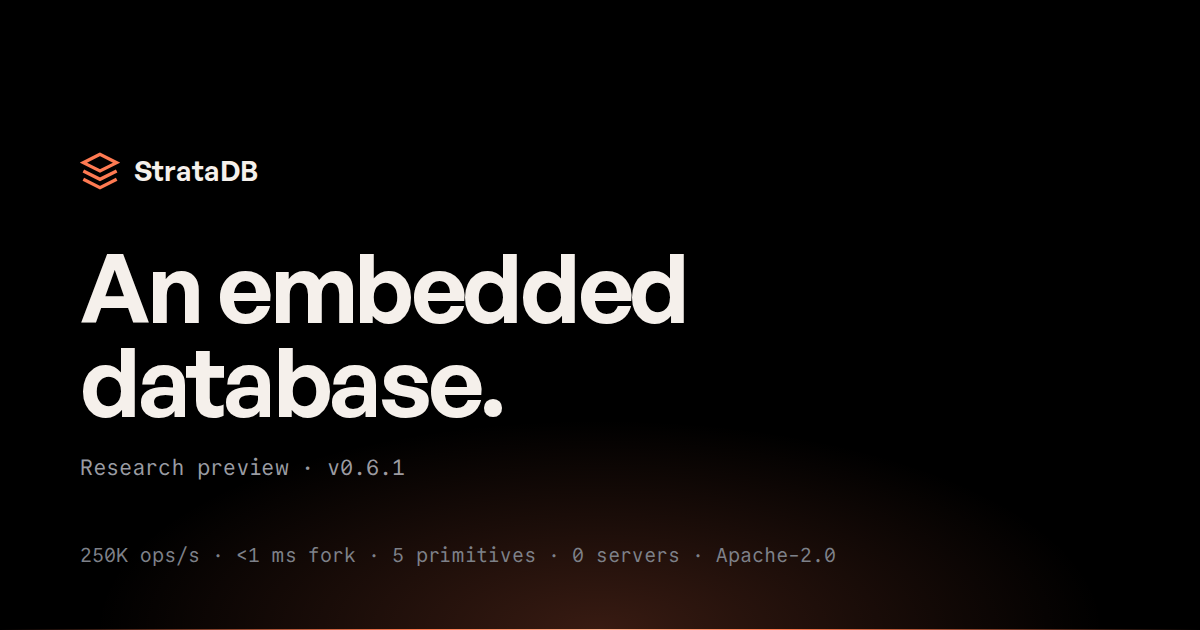
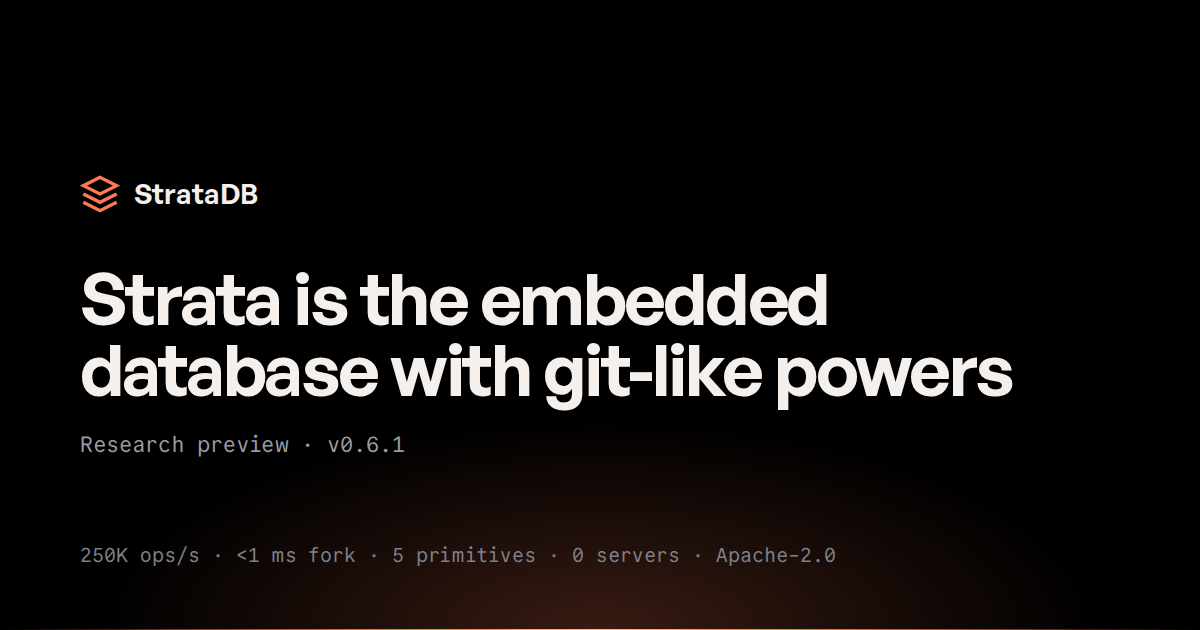
Hero v3: the acquisition surface
- H1 → 'Strata is the embedded database with git-like powers' (Ani
  verbatim; supersedes the understatement experiment — with the river
  behind it, the fuller claim carries)
- 'Get Started' removed from the hero (docs live in the nav)
- The acquisition control: curl chip + Download Foundry (R1 interim →
  repo) joined in one group; 'for your agent → stratadb.org/llms.txt'
  beneath — human CLI, human GUI, and agent door in one screen
- OG regenerated with the new headline; axe CLEAN

diff --git a/docs/product/04-experience-landing.md b/docs/product/04-experience-landing.md
@@ -69,15 +69,20 @@ stratahub) · **For agents** (`llms.txt`, For AI agents, MCP reference). Meta ro
 1px gradient line + `--horizon-glow` behind the terminal. Parallax site #1: glow 0.85×,
 terminal 1.0×, stat strip 1.04×.
 
-**Copy** (final; simple — the hero describes nothing; the demo does).
+**Copy** (v3, 2026-06-12 — the hero is the acquisition surface).
 - Badge: `Research preview · v{version}` → `/changelog`
-- H1 (`display-xl`): **"An embedded database."** — **CONFIRMED (Ani, 2026-06-11).**
-  Maximal understatement over an impossible demo; the gap is the entire effect.
-  Rationale in the approver's words: *"We are so unbothered by marketing that we
-  literally call ourselves an embedded database and that's it."* Era-framings rejected
-  (saturated, unverifiable, collapse the understatement).
-- CTAs: **"Get Started"** → `/docs/getting-started` · copyable mono chip
-  `curl -fsSL stratadb.org/install.sh | sh`
+- H1 (`display-xl`): **"Strata is the embedded database with git-like powers"** —
+  Ani's wording verbatim (2026-06-12), superseding "An embedded database." The
+  understatement experiment served its month; with the river artwork behind it, the
+  fuller claim carries. *(Noted, not normalized: uses the family name "Strata" and
+  "the" — both deliberate in Ani's phrasing; 02 §2 naming table records the exception.)*
+- **The acquisition control** (replaces all hero CTAs — no "Get Started"; docs live in
+  the nav): one joined group — copyable `curl -fsSL stratadb.org/install.sh | sh` ·
+  divider · **"⬇ Download Foundry"** (R1 interim: → strata-foundry repo; auto-upgrades
+  to release artifacts). Beneath it, the agent door, in the hero:
+  `for your agent → stratadb.org/llms.txt`.
+- Funnel note: the hero now carries **Feel + Act in one screen** — claim, get-the-product
+  (human CLI · human GUI · agent URL), proof below.
 - Stat strip (Commit Mono, footnote markers → conditions in docs):
   `250K ops/s · <1 ms fork · 5 primitives · 0 servers · Apache-2.0`
 

diff --git a/docs/product/README.md b/docs/product/README.md
@@ -69,3 +69,5 @@ are blocked until their upstream is signed off by Ani.
 | 2026-06-12 | **EMBER recalibration** (Ani: clay palette read "too serious… can't take a joke"; ref. neon.com's luminosity). Same terracotta family shifted luminous — the palette emits light: 500 #E07A5F→#FF7A52, ramp rebalanced, primitive/functional hues brightened, glow 0.13→0.24. Decided in pixels (3 candidates rendered on the live hero; ember-hot rejected as shouting). Every contrast pairing improved; axe stays clean; OG regenerated; Foundry B2 target → #E85F3A | 02 §4, tokens.css, 08 |
 | 2026-06-12 | **THE NEUTRAL STAGE — final canvas** (Ani: "the macros suck; copy Neon, ember instead of emerald"). The same-day tour in full, every step decided in pixels: warm→sapphire ("matte")→midnight ("never seen sunshine")→daylight ("bland oatmeal")→aurora ("micro, not macro")→**Neon-macro: true black + pure white + neutral grays, ember as the only temperature on the page**. Honest reversals recorded: "no greyish colors" (neutral ≠ muddy) and dark-vs-light (mode was never the issue; contrast crispness was). Midnight + daylight token sheets preserved in git/doc history | 02 §10, tokens.css |
 | 2026-06-12 | **The hero breathes** (Ani: "needs a background animation; shouldn't be static"): three light fields (ember ×2 + cool counterpoint), transform-only, 22–36s alternate periods, off under reduced motion. 03 §5 cap amended: 2 sanctioned infinite animations (cursor + hero backdrop) | 03 §5, Hero |
+| 2026-06-12 | **Backdrop perceptibility + the branching river**: first cut moved ~0.5%/s (technically animated = static); rebuilt at 48.6px/3s + opacity breathing. Then the Neon-presence answer: full-bleed SVG artwork — strands fork/diverge/merge with flowing energy, the thesis drawn in light | Hero, 08 I1 |
+| 2026-06-12 | **Hero v3 — the acquisition surface** (Ani): H1 → "Strata is the embedded database with git-like powers" (verbatim; supersedes the understatement H1; family-name usage noted). "Get Started" removed from hero (docs in nav); CTAs → one acquisition control: curl chip + Download Foundry (R1 interim → repo) + `for your agent → llms.txt` line. Hero = Feel + Act in one screen | 04 §2, Hero, OG |